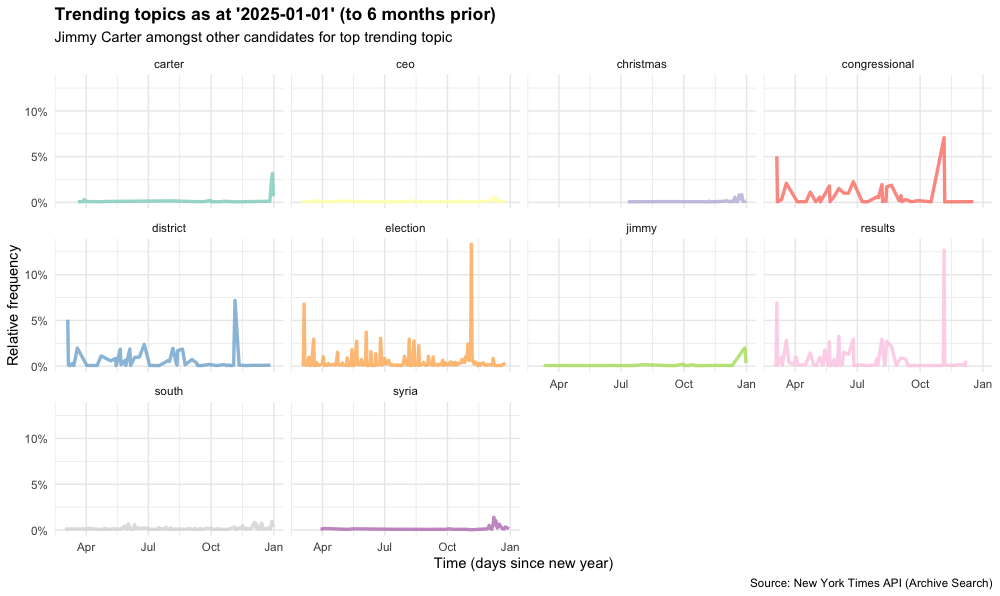
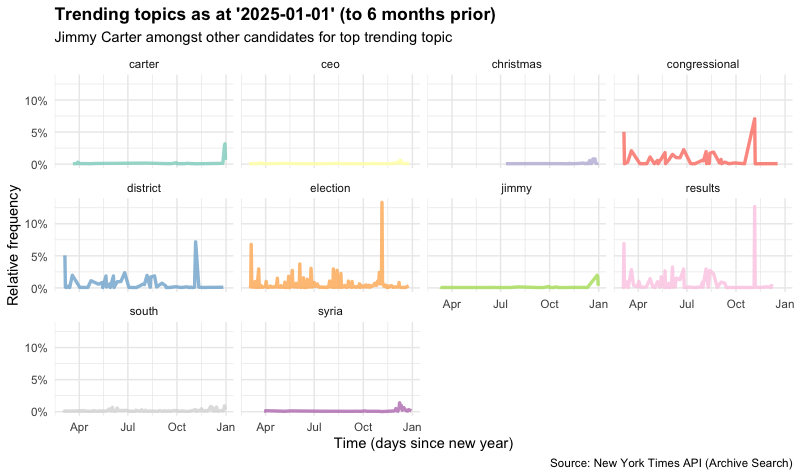
Fixed wording in README

diff --git a/README.md b/README.md
@@ -14,10 +14,10 @@ coefficient (calculated across each topic) informs us the degree to which each t
 or shrinking in popularity.
 
 For example, here are the top 10 trending topics for the period 1st July 2024 to 1st January 2025
-as determined by the logistic growth model that resides inside this analytics pipeline,
+as determined by the logistic growth model that is embedded inside this analytics pipeline,
 
 <div align="center"> 
-  <img src="src/view/plots/top_trending_202501.png" alt="Diagram showing top 10 trending terms for 1st January 2025" style="border-radius: 15px;" width="90%" >
+  <img src="src/view/plots/top_trending_202501.png" alt="Diagram showing top 10 trending terms for 1st January 2025" style="border-radius: 15px;" width="70%" >
     <p><em>Figure: top 10 trending topics from 1st July 2024 to the 1st January 2025</em></p>
 </div>
 
